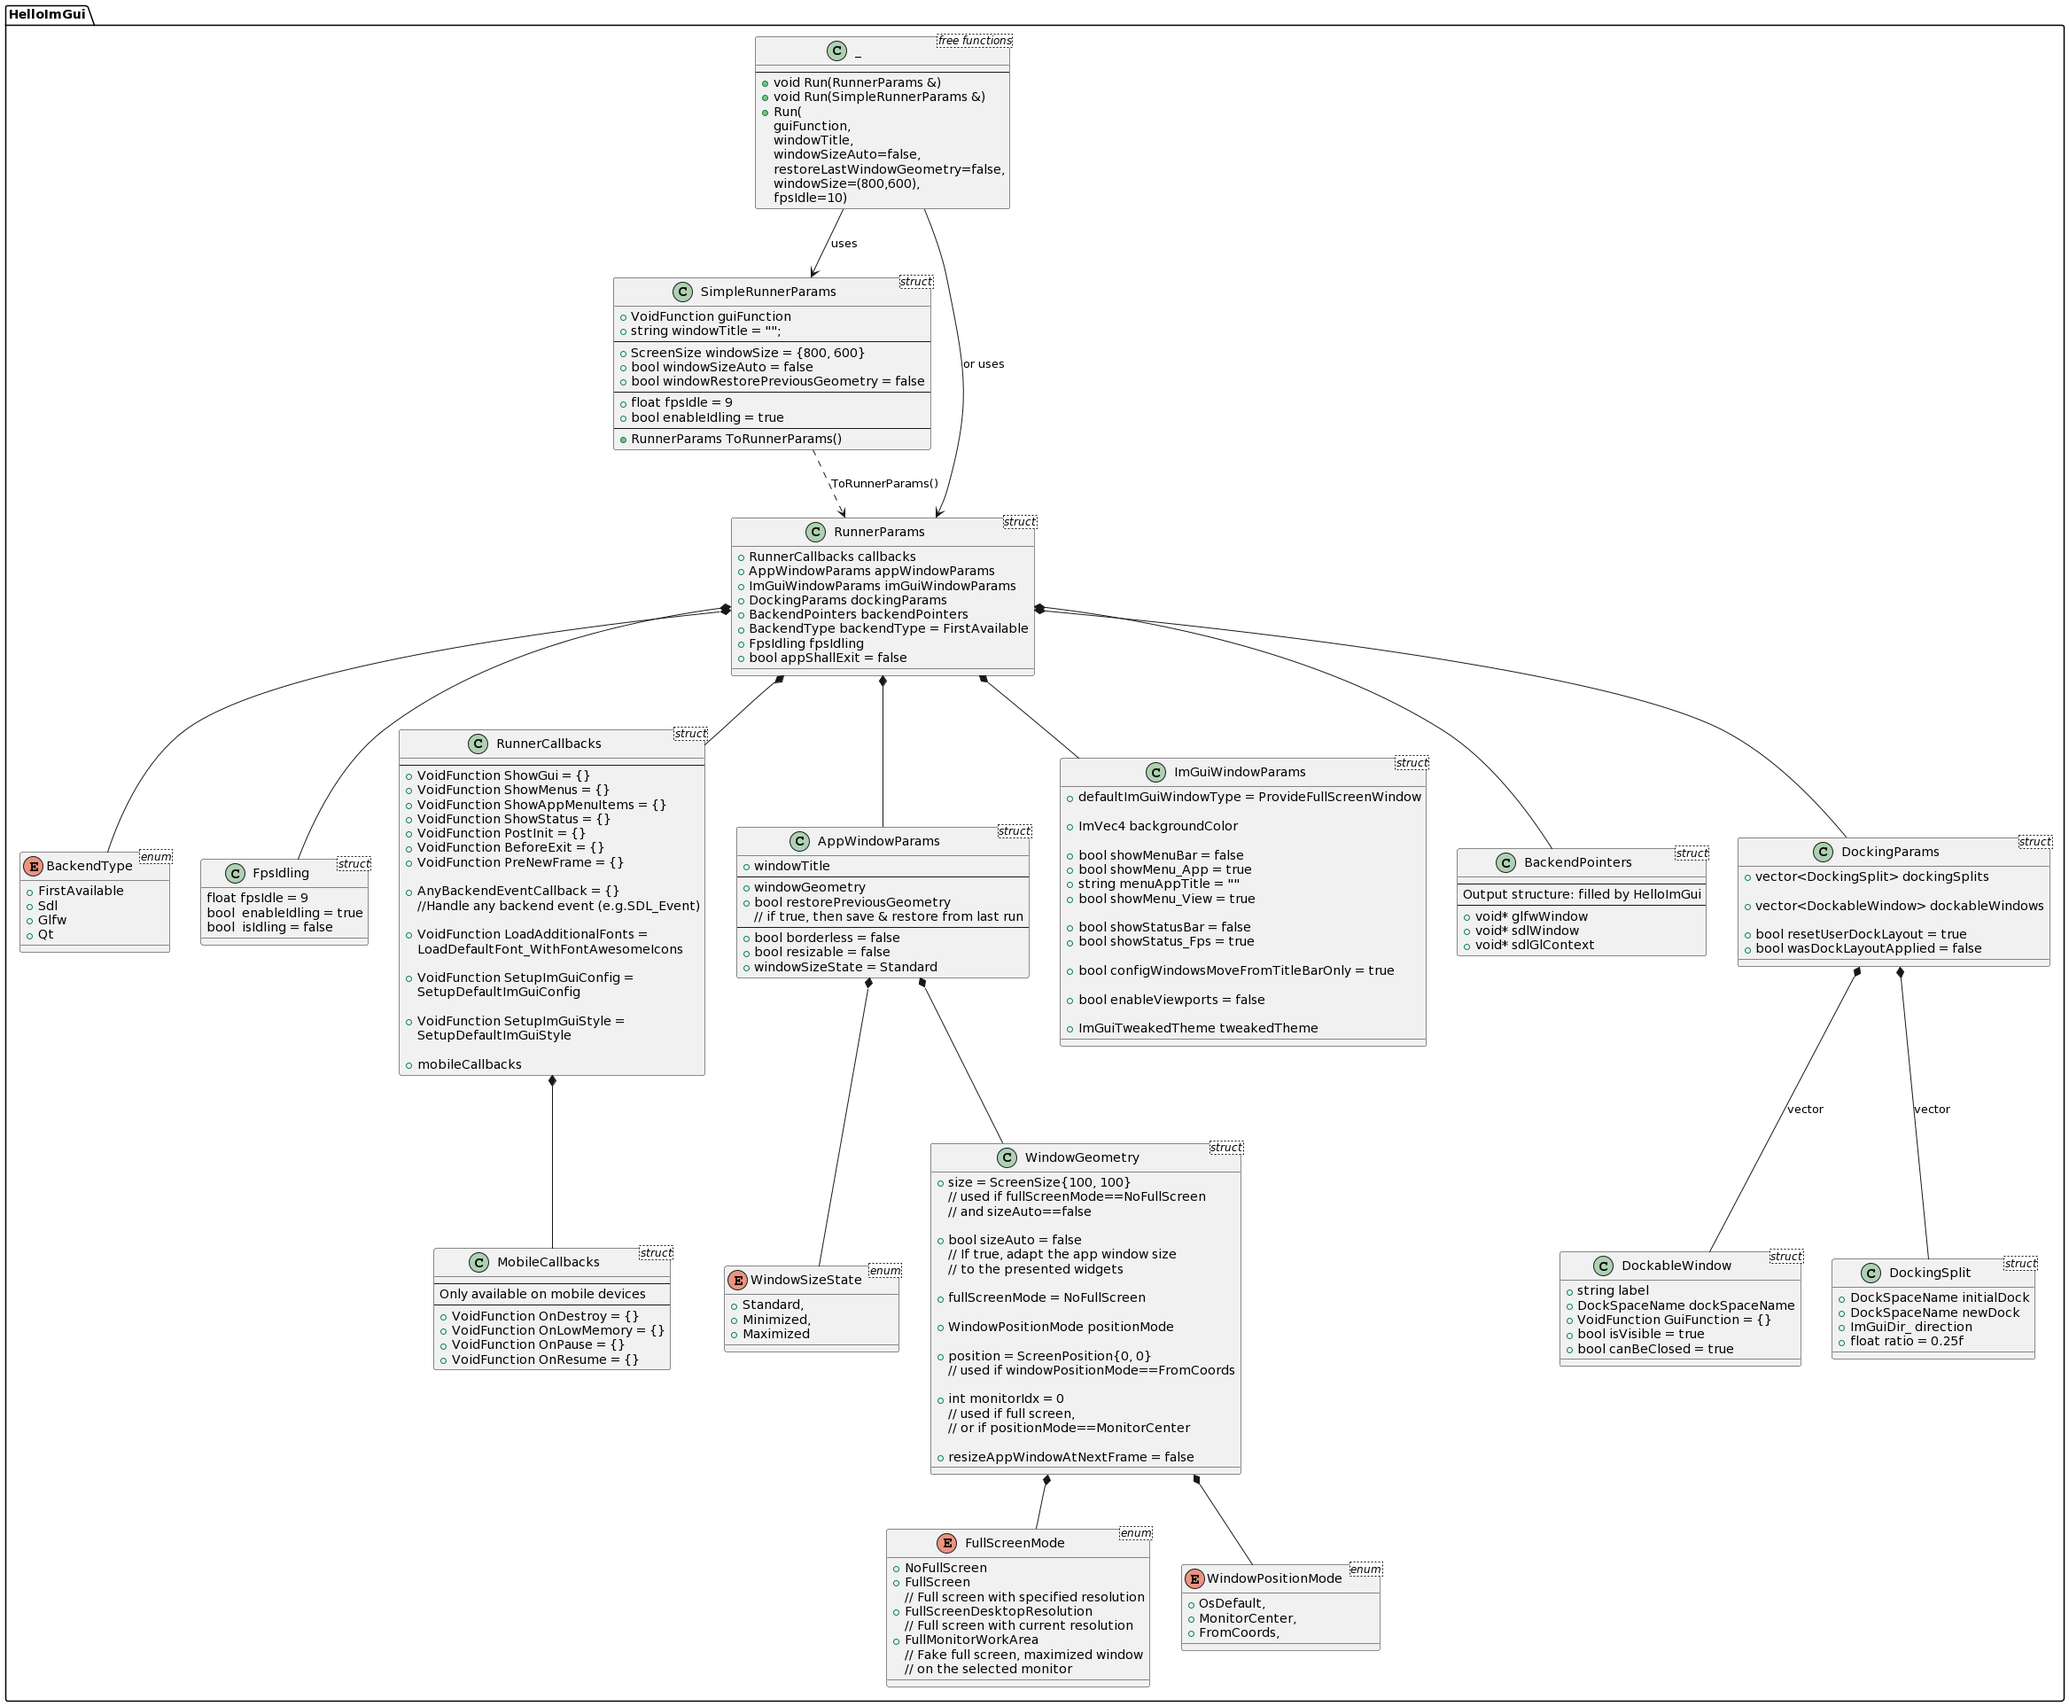
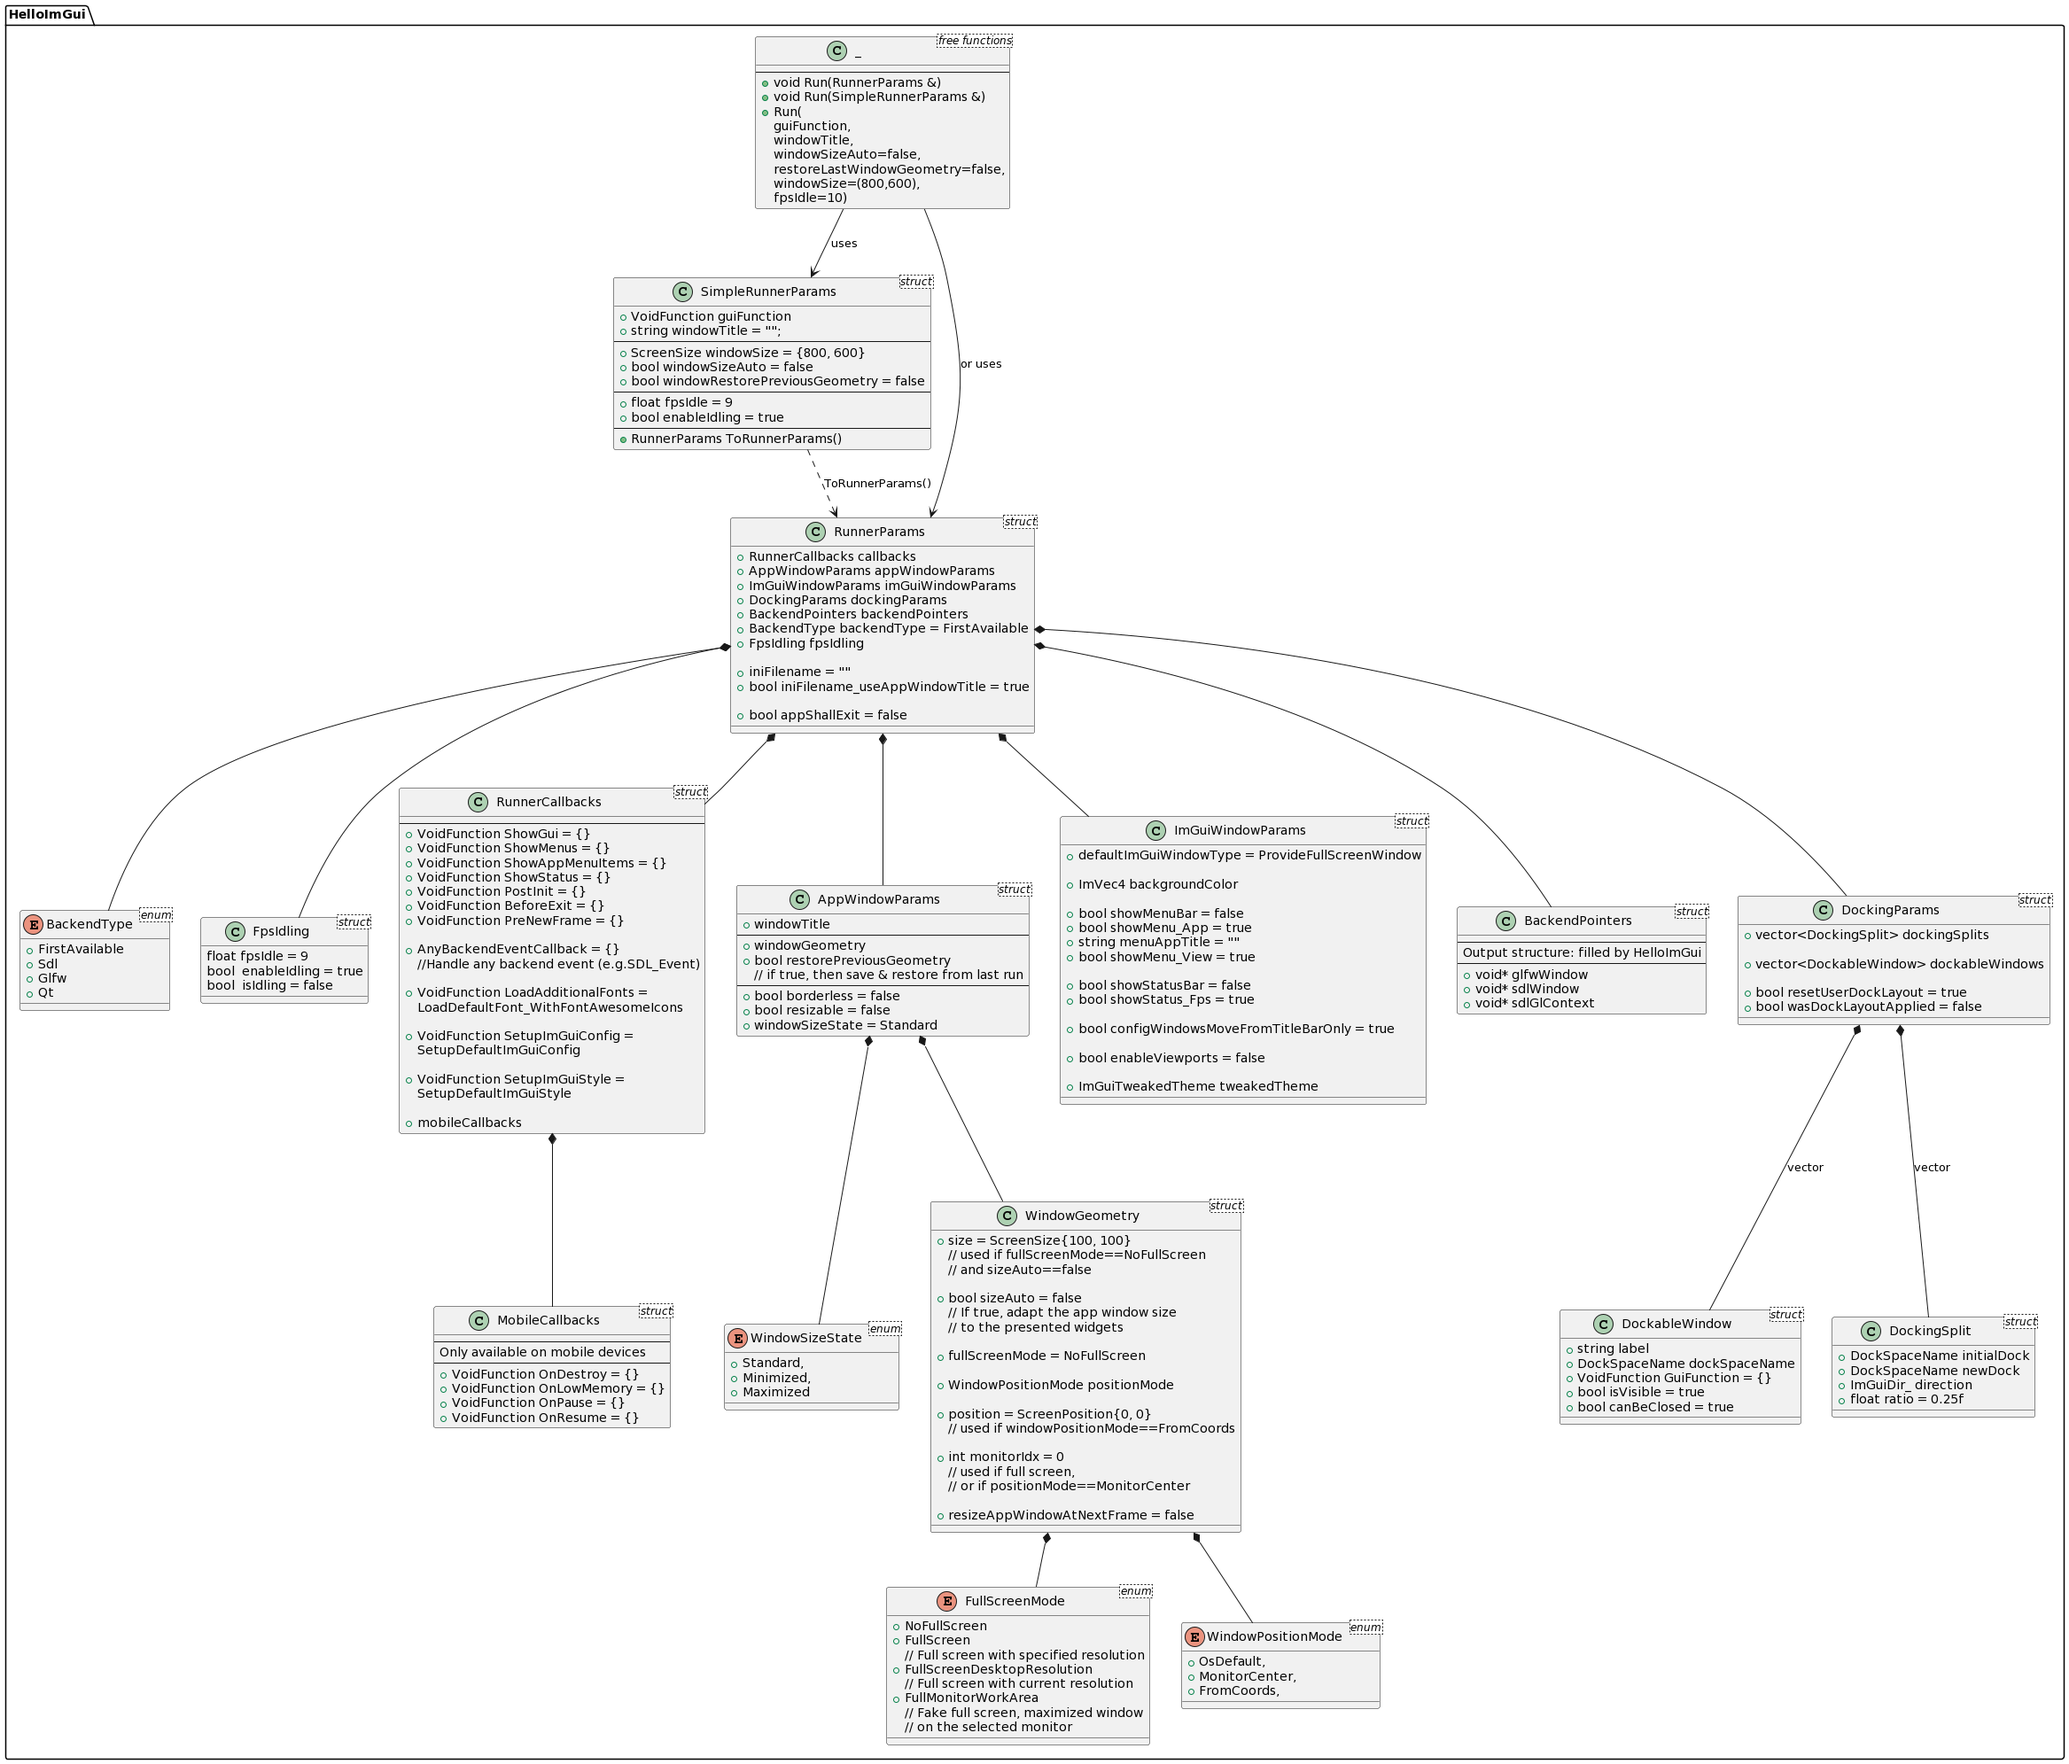
runnerParams: can set iniFilename (+ use windowTitle if empty)

diff --git a/src/hello_imgui/internal/backend_impls/abstract_runner.cpp b/src/hello_imgui/internal/backend_impls/abstract_runner.cpp
@@ -102,7 +102,11 @@ static void    MyFreeWrapper(void* ptr, void* user_data)        { IM_UNUSED(user
 
 void AbstractRunner::PrepareWindowGeometry()
 {
-    mGeometryHelper = std::make_unique<WindowGeometryHelper>(params.appWindowParams.windowGeometry, params.appWindowParams.restorePreviousGeometry);
+    mGeometryHelper = std::make_unique<WindowGeometryHelper>(
+        params.appWindowParams.windowGeometry,
+        params.appWindowParams.restorePreviousGeometry,
+        IniFilename_AppWindowPos()
+        );
     auto windowBounds = mGeometryHelper->AppWindowBoundsInitial(mBackendWindowHelper->GetMonitorsWorkAreas());
     if (params.appWindowParams.restorePreviousGeometry && mGeometryHelper->ReadLastRunWindowBounds().has_value())
         params.appWindowParams.windowGeometry.positionMode = WindowPositionMode::FromCoords;
@@ -230,6 +234,53 @@ void AbstractRunner::HandleDpiOnSecondFrame()
     }
 }
 
+static std::string _stringToSaneFilename(const std::string& s, const std::string& extension)
+{
+    std::string filenameSanitized;
+    for (char c : s)
+        if (isalnum(c))
+            filenameSanitized += c;
+        else
+            filenameSanitized += "_";
+    filenameSanitized += extension;
+    return filenameSanitized;
+}
+
+std::string AbstractRunner::IniFilename_AppWindowPos()
+{
+    std::string imguiIniFile = IniFilename_ImGui();
+
+    auto hasEnding = [](std::string const &fullString, std::string const &ending) {
+        if (fullString.length() >= ending.length()) {
+            return (0 == fullString.compare (fullString.length() - ending.length(), ending.length(), ending));
+        } else {
+            return false;
+        }
+    };
+
+    if (hasEnding(imguiIniFile, ".ini"))
+        imguiIniFile = imguiIniFile.substr(0, imguiIniFile.size() - 4);
+
+    std::string iniFileAppWindowPos = imguiIniFile + "_appWindow.ini";
+    return iniFileAppWindowPos;
+}
+
+std::string AbstractRunner::IniFilename_ImGui()
+{
+    if (! params.iniFilename.empty())
+        return params.iniFilename.c_str();
+    else
+    {
+        if (params.iniFilename_useAppWindowTitle && !params.appWindowParams.windowTitle.empty())
+        {
+            std::string iniFilenameSanitized = _stringToSaneFilename(params.appWindowParams.windowTitle, ".ini");
+            return iniFilenameSanitized;
+        }
+        else
+            return "imgui.ini";
+    }
+}
+
 
 void AbstractRunner::Setup()
 {
@@ -251,6 +302,10 @@ void AbstractRunner::Setup()
 #else
     ImGui::CreateContext();
 #endif
+
+    static std::string imguiIniFilename = IniFilename_ImGui();
+    ImGui::GetIO().IniFilename = imguiIniFilename.c_str();
+
     ImGui::GetIO().FontGlobalScale = this->ImGuiDefaultFontGlobalScale();
     Impl_SetupImgGuiContext();
     params.callbacks.SetupImGuiConfig();

diff --git a/src/hello_imgui/runner_params.h b/src/hello_imgui/runner_params.h
@@ -61,11 +61,17 @@ struct FpsIdling
 * `backendType`: _enum BackendType, default=BackendType::FirstAvailable_
   Select the wanted backend type between `Sdl`, `Glfw` and `Qt`. Only useful when multiple backend are compiled
   and available.
+* `fpsIdling`: _FpsIdling_. Idling parameters (set fpsIdling.enableIdling to false to disable Idling)
+* `iniFilename`: _string, default = ""_
+  Sets the ini filename under which imgui will save its params. Path is relative to the current app working dir.
+  If empty, then the ini file name will be derived from appWindowParams.windowTitle (if both are empty, the ini filename will be imgui.ini).
+  Note: if appWindowParams.restorePreviousGeometry is true, then HelloImGui will also store the app window size and position into "iniFilename + _appWindow.ini"
+* `iniFilename_useAppWindowTitle`: _bool, default = true_.
+  Shall the iniFilename be derived from appWindowParams.windowTitle if empty
 * `appShallExit`: _bool, default=false_.
-   Will be set to true by the app when exiting.
+   During execution, set this to true to exit the app.
    _Note: 'appShallExit' has no effect on Mobile Devices (iOS, Android) and under emscripten, since these apps
    shall not exit._
-* `fpsIdling`: _FpsIdling_. Idling parameters (set fpsIdling.enableIdling to false to disable Idling)
 * `emscripten_fps`: _int, default = 0_.
   Set the application refresh rate (only used on emscripten: 0 stands for "let the app or the browser decide")
 @@md
@@ -79,6 +85,9 @@ struct RunnerParams
     BackendPointers backendPointers;
     BackendType backendType = BackendType::FirstAvailable;
     FpsIdling fpsIdling;
+
+    std::string iniFilename = "";
+    bool iniFilename_useAppWindowTitle = true;
 
     bool appShallExit = false;
     int emscripten_fps = 0;

diff --git a/src/hello_imgui/internal/backend_impls/backend_window_helper/window_geometry_helper.cpp b/src/hello_imgui/internal/backend_impls/backend_window_helper/window_geometry_helper.cpp
@@ -9,8 +9,6 @@
 
 namespace
 {
-    const char* APP_WINDOW_POS_INI_FILE = "imgui_app_window.ini";
-
     std::vector<std::string> splitString(const std::string& s, char delimiter)
     {
         std::vector<std::string> tokens;
@@ -62,8 +60,8 @@ namespace
 
 namespace HelloImGui
 {
-    WindowGeometryHelper::WindowGeometryHelper(WindowGeometry &geometry, bool restoreLast) :
-        mGeometry(geometry), mRestoreLast(restoreLast)
+    WindowGeometryHelper::WindowGeometryHelper(WindowGeometry &geometry, bool restoreLast, const std::string &windowGeometryIniFilename) :
+        mGeometry(geometry), mRestoreLast(restoreLast), mWindowGeometryIniFilename(windowGeometryIniFilename)
         {}
 
     bool WindowGeometryHelper::HasInitialWindowSizeInfo()
@@ -158,7 +156,7 @@ namespace HelloImGui
         ss << "WindowPosition=" << windowBounds.position[0] << "," << windowBounds.position[1] << "\n";
         ss << "WindowSize=" << windowBounds.size[0] << "," << windowBounds.size[1] << "\n";
 
-        std::ofstream os(APP_WINDOW_POS_INI_FILE);
+        std::ofstream os(mWindowGeometryIniFilename);
         os << ss.str();
         os.close();
 
@@ -169,7 +167,7 @@ namespace HelloImGui
 
     std::optional<ScreenBounds> WindowGeometryHelper::ReadLastRunWindowBounds()
     {
-        std::ifstream is(APP_WINDOW_POS_INI_FILE);
+        std::ifstream is(mWindowGeometryIniFilename);
         if (is.is_open())
         {
             ScreenBounds r;

diff --git a/src/hello_imgui/internal/backend_impls/backend_window_helper/window_geometry_helper.h b/src/hello_imgui/internal/backend_impls/backend_window_helper/window_geometry_helper.h
@@ -5,7 +5,6 @@
 #include <optional>
 
 
-// Fixme: window_geometry_helper and window_autosize_helper should be merged
 namespace HelloImGui
 {
     class WindowGeometryHelper
@@ -13,15 +12,16 @@ namespace HelloImGui
     public:
         WindowGeometry& mGeometry;
         bool mRestoreLast;
+        std::string mWindowGeometryIniFilename;
 
-        WindowGeometryHelper(WindowGeometry &geometry, bool restoreLast);
+        WindowGeometryHelper(WindowGeometry &geometry, bool restoreLast, const std::string& windowGeometryIniFilename);
 
         bool HasInitialWindowSizeInfo();
         ScreenBounds AppWindowBoundsInitial(const std::vector<ScreenBounds>& allMonitorsWorkAreas);
 
         // Save / Load last run window bounds
-        static void WriteLastRunWindowBounds(const ScreenBounds& windowBounds);
-        static std::optional<ScreenBounds> ReadLastRunWindowBounds();
+        void WriteLastRunWindowBounds(const ScreenBounds& windowBounds);
+        std::optional<ScreenBounds> ReadLastRunWindowBounds();
 
 
         void EnsureWindowFitsMonitor(BackendApi::IBackendWindowHelper* helper, BackendApi::WindowPointer window);

diff --git a/src/hello_imgui/internal/backend_impls/abstract_runner.h b/src/hello_imgui/internal/backend_impls/abstract_runner.h
@@ -12,16 +12,13 @@ namespace HelloImGui
 class AbstractRunner
 {
    public:
-    /// Step 0: Construct a concrete Runner (for example RunnerSdlOpenGl3 or RunnerGlfwOpenGl3)
     AbstractRunner(RunnerParams &params_);
     virtual ~AbstractRunner() = default;
 
     RunnerParams & params;
 
-    /// Step 4.a: Call Run()
     virtual void Run();
 
-    /// Step 4.b: Or implement your own Run using Setup()/Render()/TearDown()
     void Setup();
     void CreateFramesAndRender();
     void RenderGui();
@@ -83,6 +80,11 @@ private:
     void MakeWindowSizeRelativeTo96Ppi_IfRequired();
     bool ShallSizeWindowRelativeTo96Ppi();
     bool WantAutoSize();
+    // Logic for idling
+    void IdleBySleeping();
+    bool ShallIdleThisFrame_Emscripten();
+    std::string IniFilename_AppWindowPos();
+    std::string IniFilename_ImGui();
 
 protected:
     BackendApi::WindowPointer mWindow = nullptr;
@@ -93,9 +95,6 @@ private:
     int mIdxFrame = 0;
     bool mWasWindowAutoResizedOnPreviousFrame = false;
 
-    // Logic for idling
-    void IdleBySleeping();
-    bool ShallIdleThisFrame_Emscripten();
 };
 
 

diff --git a/src/hello_imgui/hello_imgui_api.md b/src/hello_imgui/hello_imgui_api.md
@@ -119,11 +119,17 @@ int main(){
 * `backendType`: _enum BackendType, default=BackendType::FirstAvailable_
   Select the wanted backend type between `Sdl`, `Glfw` and `Qt`. Only useful when multiple backend are compiled
   and available.
+* `fpsIdling`: _FpsIdling_. Idling parameters (set fpsIdling.enableIdling to false to disable Idling)
+* `iniFilename`: _string, default = ""_
+  Sets the ini filename under which imgui will save its params. Path is relative to the current app working dir.
+  If empty, then the ini file name will be derived from appWindowParams.windowTitle (if both are empty, the ini filename will be imgui.ini).
+  Note: if appWindowParams.restorePreviousGeometry is true, then HelloImGui will also store the app window size and position into "iniFilename + _appWindow.ini"
+* `iniFilename_useAppWindowTitle`: _bool, default = true_.
+  Shall the iniFilename be derived from appWindowParams.windowTitle if empty
 * `appShallExit`: _bool, default=false_.
-   Will be set to true by the app when exiting.
+   During execution, set this to true to exit the app.
    _Note: 'appShallExit' has no effect on Mobile Devices (iOS, Android) and under emscripten, since these apps
    shall not exit._
-* `fpsIdling`: _FpsIdling_. Idling parameters (set fpsIdling.enableIdling to false to disable Idling)
 * `emscripten_fps`: _int, default = 0_.
   Set the application refresh rate (only used on emscripten: 0 stands for "let the app or the browser decide")
 
